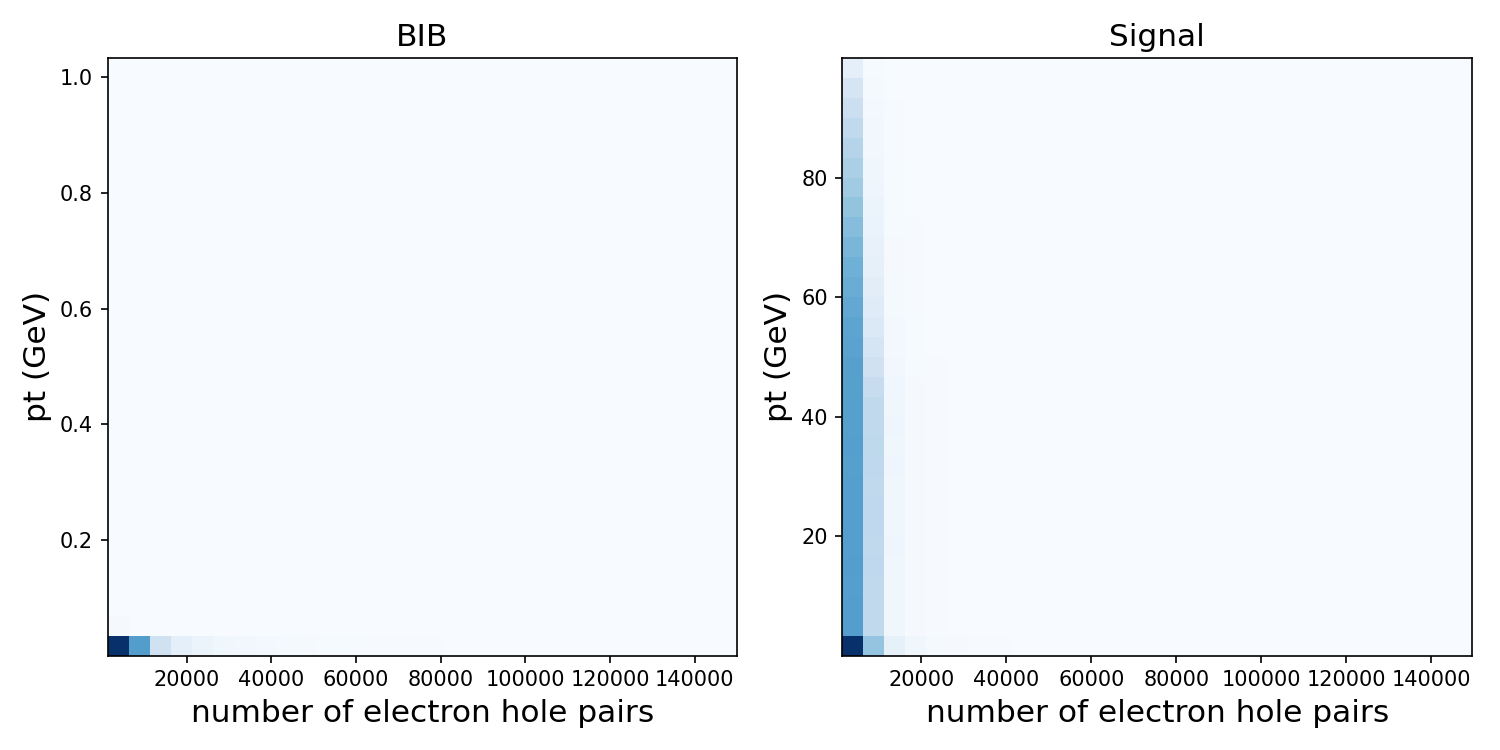
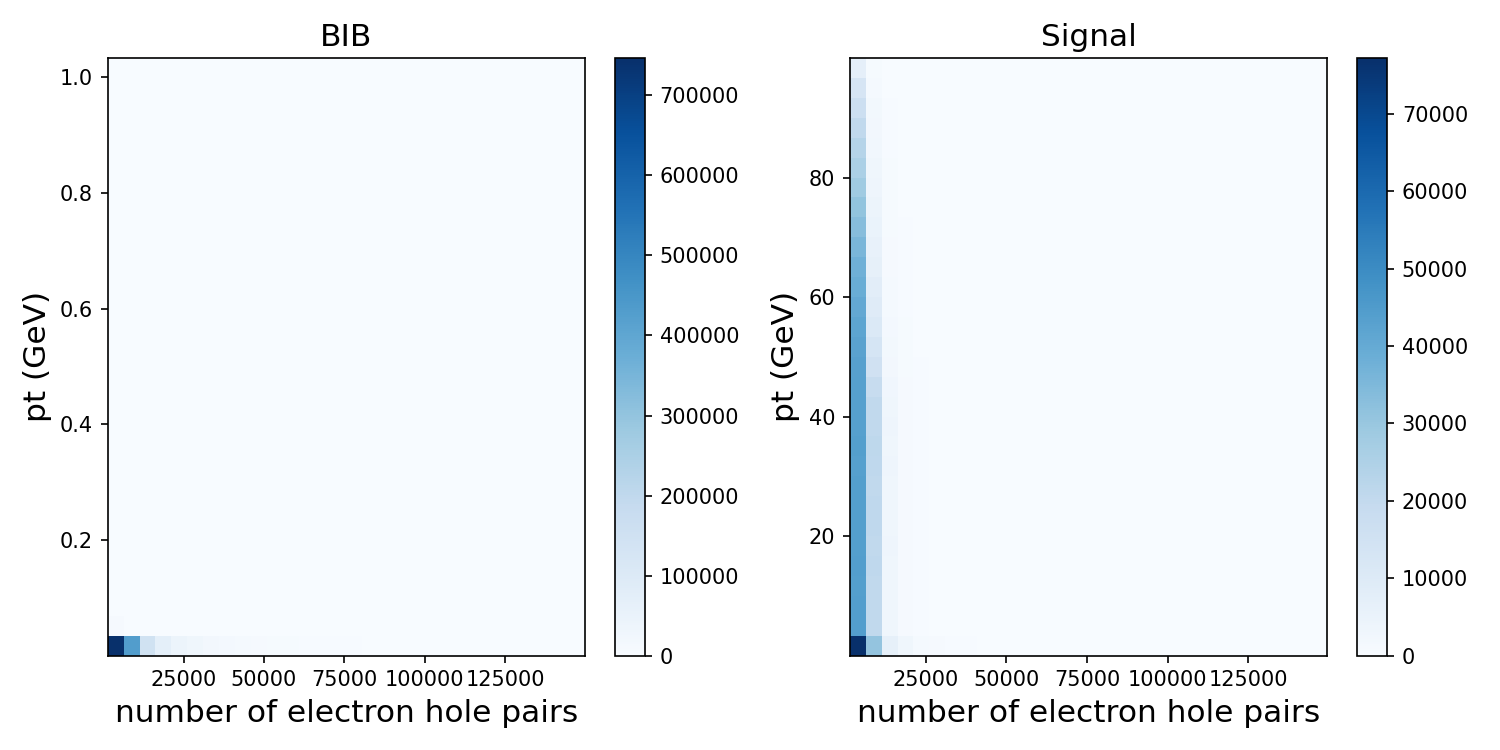
Updates to plots

diff --git a/daniel/validationPlots/plotUtils.py b/daniel/validationPlots/plotUtils.py
@@ -275,6 +275,9 @@ def getProfiles(truth__, clusters__):
     xProfile__MidZgl = getAverageXProfile(clusters__MidZgl)
     xProfile__HighZgl = getAverageXProfile(clusters__HighZgl)
 
+    yProfile__ = getAverageYProfile(clusters__)
+    xProfile__ = getAverageXProfile(clusters__)
+
 
     avgClusterDict = {        
         "yProfileLowPtPosLowYl": yProfile__LowPtPosLowYl,
@@ -339,6 +342,9 @@ def getProfiles(truth__, clusters__):
         "xProfileLowZgl": xProfile__LowZgl,
         "xProfileMidZgl": xProfile__MidZgl,
         "xProfileHighZgl": xProfile__HighZgl,
+
+        "yProfile": yProfile__,
+        "xProfile": xProfile__,
     }
     return avgClusterDict
 
@@ -420,7 +426,8 @@ def plotZglobalXsize(truthbib, truthsig, xSizesSig, xSizesBib,mask_bib,mask_sig,
     # mask_bib = ~np.isnan(z_global_bib) & ~np.isnan(xSizesBib)
     # mask_bib = mask_bib & np.isfinite(z_global_bib) & np.isfinite(xSizesBib)
     
-    ax[0].hist2d(z_global_bib[mask_bib], xSizesBib[mask_bib], bins=[30, np.arange(0,9,1)], cmap=pastel_red_cmap)
+    hb = ax[0].hist2d(z_global_bib[mask_bib], xSizesBib[mask_bib], bins=[30, np.arange(0,9,1)], cmap=pastel_red_cmap)
+    ax[0].figure.colorbar(hb[3],ax=ax[0])#    ax[0].colorbar()
     ax[0].set_title("BIB", fontsize=20)
     ax[0].set_xlabel('z-global [mm]', fontsize=24)
     ax[0].set_ylabel('x-size (# pixels)', fontsize=24)
@@ -430,7 +437,8 @@ def plotZglobalXsize(truthbib, truthsig, xSizesSig, xSizesBib,mask_bib,mask_sig,
     # mask_sig = ~np.isnan(z_global_sig) & ~np.isnan(xSizesSig)
     # mask_sig = mask_sig & np.isfinite(z_global_sig) & np.isfinite(xSizesSig)
     
-    ax[1].hist2d(z_global_sig[mask_sig], xSizesSig[mask_sig], bins=[30, np.arange(0,9,1)], cmap=pastel_red_cmap)
+    hb = ax[1].hist2d(z_global_sig[mask_sig], xSizesSig[mask_sig], bins=[30, np.arange(0,9,1)], cmap=pastel_red_cmap)
+    ax[1].figure.colorbar(hb[3],ax=ax[1])#    ax[1].colorbar()
     ax[1].set_title("Signal", fontsize=20)
     ax[1].set_xlabel('z-global [mm]', fontsize=24)
     ax[1].set_ylabel('x-size (# pixels)', fontsize=24)
@@ -468,7 +476,8 @@ def plotZglobalYsize(truthbib, truthsig, ySizesSig, ySizesBib,mask_bib_y,mask_si
     # mask_bib_y = ~np.isnan(z_global_bib) & ~np.isnan(ySizesBib)
     # mask_bib_y = mask_bib_y & np.isfinite(z_global_bib) & np.isfinite(ySizesBib)
     
-    ax[0].hist2d(z_global_bib[mask_bib_y], ySizesBib[mask_bib_y], bins=[30, np.arange(0,9,1)], cmap=pastel_red_cmap)
+    hb = ax[0].hist2d(z_global_bib[mask_bib_y], ySizesBib[mask_bib_y], bins=[30, np.arange(0,9,1)], cmap=pastel_red_cmap)
+    ax[0].figure.colorbar(hb[3],ax=ax[0])#    ax[0].colorbar()
     ax[0].set_title("BIB - Y Size", fontsize=63)
     ax[0].set_xlabel('z-global [mm]', fontsize=50)
     ax[0].set_ylabel('y-size (# pixels)', fontsize=50)
@@ -478,7 +487,8 @@ def plotZglobalYsize(truthbib, truthsig, ySizesSig, ySizesBib,mask_bib_y,mask_si
     # mask_sig_y = ~np.isnan(z_global_sig) & ~np.isnan(ySizesSig)
     # mask_sig_y = mask_sig_y & np.isfinite(z_global_sig) & np.isfinite(ySizesSig)
     
-    ax[1].hist2d(z_global_sig[mask_sig_y], ySizesSig[mask_sig_y], bins=[30, np.arange(0,9,1)], cmap=pastel_red_cmap)
+    hb = ax[1].hist2d(z_global_sig[mask_sig_y], ySizesSig[mask_sig_y], bins=[30, np.arange(0,9,1)], cmap=pastel_red_cmap)
+    ax[1].figure.colorbar(hb[3],ax=ax[1])#    ax[1].colorbar()
     ax[1].set_title("Signal - Y Size", fontsize=63)
     ax[1].set_xlabel('z-global [mm]', fontsize=50)
     ax[1].set_ylabel('y-size (# pixels)', fontsize=50)
@@ -513,14 +523,16 @@ def plotZglobalXYsize(truthbib, truthsig, xSizesSig, xSizesBib, ySizesSig, ySize
 
     # Top row: X-size comparisons
     # Top-left: BIB X-size
-    axes[0,0].hist2d(z_global_bib[mask_bib], xSizesBib[mask_bib], bins=[30, np.arange(0,9,1)], cmap=pastel_red_cmap)
+    hb = axes[0,0].hist2d(z_global_bib[mask_bib], xSizesBib[mask_bib], bins=[30, np.arange(0,9,1)], cmap=pastel_red_cmap)
+    axes[0,0].figure.colorbar(hb[3],ax=axes[0,0])#    axes[0,0].colorbar()
     axes[0,0].set_title("BIB - X Size", fontsize=38)
     axes[0,0].set_xlabel('z-global [mm]', fontsize=31)
     axes[0,0].set_ylabel('x-size (# pixels)', fontsize=31)
     axes[0,0].tick_params(axis='both', which='major', labelsize=23)
     
     # Top-right: Signal X-size
-    axes[0,1].hist2d(z_global_sig[mask_sig], xSizesSig[mask_sig], bins=[30, np.arange(0,9,1)], cmap=pastel_red_cmap)
+    hb = axes[0,1].hist2d(z_global_sig[mask_sig], xSizesSig[mask_sig], bins=[30, np.arange(0,9,1)], cmap=pastel_red_cmap)
+    axes[0,1].figure.colorbar(hb[3],ax=axes[0,1])#    axes[0,1].colorbar()
     axes[0,1].set_title("Signal - X Size", fontsize=38)
     axes[0,1].set_xlabel('z-global [mm]', fontsize=31)
     axes[0,1].set_ylabel('x-size (# pixels)', fontsize=31)
@@ -528,14 +540,16 @@ def plotZglobalXYsize(truthbib, truthsig, xSizesSig, xSizesBib, ySizesSig, ySize
     
     # Bottom row: Y-size comparisons
     # Bottom-left: BIB Y-size
-    axes[1,0].hist2d(z_global_bib[mask_bib_y], ySizesBib[mask_bib_y], bins=[30, np.arange(0,9,1)], cmap=pastel_red_cmap)
+    hb = axes[1,0].hist2d(z_global_bib[mask_bib_y], ySizesBib[mask_bib_y], bins=[30, np.arange(0,9,1)], cmap=pastel_red_cmap)
+    axes[1,0].figure.colorbar(hb[3],ax=axes[1,0])#    axes[1,0].colorbar()
     axes[1,0].set_title("BIB - Y Size", fontsize=38)
     axes[1,0].set_xlabel('z-global [mm]', fontsize=31)
     axes[1,0].set_ylabel('y-size (# pixels)', fontsize=31)
     axes[1,0].tick_params(axis='both', which='major', labelsize=23)
     
     # Bottom-right: Signal Y-size
-    axes[1,1].hist2d(z_global_sig[mask_sig_y], ySizesSig[mask_sig_y], bins=[30, np.arange(0,9,1)], cmap=pastel_red_cmap)
+    hb = axes[1,1].hist2d(z_global_sig[mask_sig_y], ySizesSig[mask_sig_y], bins=[30, np.arange(0,9,1)], cmap=pastel_red_cmap)
+    axes[1,1].figure.colorbar(hb[3],ax=axes[1,1])#    axes[1,1].colorbar()
     axes[1,1].set_title("Signal - Y Size", fontsize=38)
     axes[1,1].set_xlabel('z-global [mm]', fontsize=31)
     axes[1,1].set_ylabel('y-size (# pixels)', fontsize=31)
@@ -638,12 +652,14 @@ def plotEtaXYsize(truthbib, truthsig, xSizesSig, xSizesBib, ySizesSig, ySizesBib
     # Before each hist2d call, filter out NaN and inf values for both axes
     mask_96 = ~np.isnan(truthsig['eta']) & ~np.isnan(xSizesSig)
     mask_96 = mask_96 & np.isfinite(truthsig['eta']) & np.isfinite(xSizesSig)
-    ax[0,1].hist2d(truthsig['eta'][mask_96], xSizesSig[mask_96], bins=[30, np.arange(0,9,1)], cmap='Blues')
+    hb = ax[0,1].hist2d(truthsig['eta'][mask_96], xSizesSig[mask_96], bins=[30, np.arange(0,9,1)], cmap='Blues')
+    ax[0,1].figure.colorbar(hb[3],ax=ax[0,1])#    ax[0,1].colorbar()
     ax[0,1].set_title("Signal", fontsize=15)
 
     mask_98 = ~np.isnan(truthsig['eta']) & ~np.isnan(ySizesSig)
     mask_98 = mask_98 & np.isfinite(truthsig['eta']) & np.isfinite(ySizesSig)
-    ax[1,1].hist2d(truthsig['eta'][mask_98], ySizesSig[mask_98], bins=[30, np.arange(0,14,1)], cmap='Blues')
+    hb = ax[1,1].hist2d(truthsig['eta'][mask_98], ySizesSig[mask_98], bins=[30, np.arange(0,14,1)], cmap='Blues')
+    ax[1,1].figure.colorbar(hb[3],ax=ax[1,1])#    ax[1,1].colorbar()
     ax[1,1].set_xlabel('η', fontsize=15)
 
     ax[0,0].set_ylabel('x-size (# pixels)', fontsize=15)
@@ -653,12 +669,14 @@ def plotEtaXYsize(truthbib, truthsig, xSizesSig, xSizesBib, ySizesSig, ySizesBib
     # Before each hist2d call, filter out NaN and inf values for both axes
     mask_96 = ~np.isnan(truthbib['eta']) & ~np.isnan(xSizesBib)
     mask_96 = mask_96 & np.isfinite(truthbib['eta']) & np.isfinite(xSizesBib)
-    ax[0,0].hist2d(truthbib['eta'][mask_96], xSizesBib[mask_96], bins=[30, np.arange(0,9,1)], cmap='Blues')
+    hb = ax[0,0].hist2d(truthbib['eta'][mask_96], xSizesBib[mask_96], bins=[30, np.arange(0,9,1)], cmap='Blues')
+    ax[0,0].figure.colorbar(hb[3],ax=ax[0,0])#    ax[0,0].colorbar()
     ax[0,0].set_title("BIB", fontsize=15)
 
     mask_98 = ~np.isnan(truthbib['eta']) & ~np.isnan(ySizesBib)
     mask_98 = mask_98 & np.isfinite(truthbib['eta']) & np.isfinite(ySizesBib)
-    ax[1,0].hist2d(truthbib['eta'][mask_98], ySizesBib[mask_98], bins=[30, np.arange(0,14,1)], cmap='Blues')
+    hb = ax[1,0].hist2d(truthbib['eta'][mask_98], ySizesBib[mask_98], bins=[30, np.arange(0,14,1)], cmap='Blues')
+    ax[1,0].figure.colorbar(hb[3],ax=ax[1,0])#    ax[1,0].colorbar()
     ax[1,0].set_xlabel('η', fontsize=15)
 
     plt.tight_layout()
@@ -675,12 +693,14 @@ def plotYlocalXYsize(truthbib, truthsig, xSizesSig, xSizesBib, ySizesSig, ySizes
     # Before each hist2d call, filter out NaN and inf values for both axes
     mask_111 = ~np.isnan(truthsig['y-local']) & ~np.isnan(xSizesSig)
     mask_111 = mask_111 & np.isfinite(truthsig['y-local']) & np.isfinite(xSizesSig)
-    ax[0,1].hist2d(truthsig['y-local'][mask_111], xSizesSig[mask_111], bins=[30, np.arange(0,9,1)], cmap='Blues')
+    hb = ax[0,1].hist2d(truthsig['y-local'][mask_111], xSizesSig[mask_111], bins=[30, np.arange(0,9,1)], cmap='Blues')
+    ax[0,1].figure.colorbar(hb[3],ax=ax[0,1])#    ax[0,1].colorbar()
     ax[0,1].set_title("Signal", fontsize=15)
 
     mask_113 = ~np.isnan(truthsig['y-local']) & ~np.isnan(ySizesSig)
     mask_113 = mask_113 & np.isfinite(truthsig['y-local']) & np.isfinite(ySizesSig)
-    ax[1,1].hist2d(truthsig['y-local'][mask_113], ySizesSig[mask_113], bins=[30, np.arange(0,14,1)], cmap='Blues')
+    hb = ax[1,1].hist2d(truthsig['y-local'][mask_113], ySizesSig[mask_113], bins=[30, np.arange(0,14,1)], cmap='Blues')
+    ax[1,1].figure.colorbar(hb[3],ax=ax[1,1])#    ax[1,1].colorbar()
     ax[1,1].set_xlabel('y-local [μm]', fontsize=15)
 
     ax[0,0].set_ylabel('x-size (# pixels)', fontsize=15)
@@ -691,12 +711,14 @@ def plotYlocalXYsize(truthbib, truthsig, xSizesSig, xSizesBib, ySizesSig, ySizes
 
     mask_111 = ~np.isnan(truthbib['y-local']) & ~np.isnan(xSizesBib)
     mask_111 = mask_111 & np.isfinite(truthbib['y-local']) & np.isfinite(xSizesBib)
-    ax[0,0].hist2d(truthbib['y-local'][mask_111], xSizesBib[mask_111], bins=[30, np.arange(0,9,1)], cmap='Blues')
+    hb = ax[0,0].hist2d(truthbib['y-local'][mask_111], xSizesBib[mask_111], bins=[30, np.arange(0,9,1)], cmap='Blues')
+    ax[0,0].figure.colorbar(hb[3],ax=ax[0,0])#    ax[0,0].colorbar()
     ax[0,0].set_title("BIB", fontsize=15)
 
     mask_113 = ~np.isnan(truthbib['y-local']) & ~np.isnan(ySizesBib)
     mask_113 = mask_113 & np.isfinite(truthbib['y-local']) & np.isfinite(ySizesBib)
-    ax[1,0].hist2d(truthbib['y-local'][mask_113], ySizesBib[mask_113], bins=[30, np.arange(0,14,1)], cmap='Blues')
+    hb = ax[1,0].hist2d(truthbib['y-local'][mask_113], ySizesBib[mask_113], bins=[30, np.arange(0,14,1)], cmap='Blues')
+    ax[1,0].figure.colorbar(hb[3],ax=ax[1,0])#    ax[1,0].colorbar()
     ax[1,0].set_xlabel('y-local [μm]', fontsize=15)
 
 
@@ -713,14 +735,16 @@ def plotEhPt(truthbib, truthsig, mask_bib,mask_sig,PLOT_DIR="./plots",interactiv
     # Before each hist2d call, filter out NaN and inf values for both axes
     mask_125 = ~np.isnan(truthsig['number_eh_pairs']) & ~np.isnan(truthsig['pt'])
     mask_125 = mask_125 & np.isfinite(truthsig['number_eh_pairs']) & np.isfinite(truthsig['pt'])
-    ax[1].hist2d(truthsig['number_eh_pairs'][mask_125], truthsig['pt'][mask_125], bins=30, cmap='Blues')
+    hb = ax[1].hist2d(truthsig['number_eh_pairs'][mask_125], truthsig['pt'][mask_125], bins=30, cmap='Blues')
+    ax[1].figure.colorbar(hb[3],ax=ax[1])#    ax[1].colorbar()
     ax[1].set_title("Signal", fontsize=15)
     ax[1].set_ylabel('pt (GeV)', fontsize=15)
     ax[1].set_xlabel('number of electron hole pairs', fontsize=15)
 
     mask_125 = ~np.isnan(truthbib['number_eh_pairs']) & ~np.isnan(truthbib['pt'])
     mask_125 = mask_125 & np.isfinite(truthbib['number_eh_pairs']) & np.isfinite(truthbib['pt'])
-    ax[0].hist2d(truthbib['number_eh_pairs'][mask_125], truthbib['pt'][mask_125], bins=30, cmap='Blues')
+    hb = ax[0].hist2d(truthbib['number_eh_pairs'][mask_125], truthbib['pt'][mask_125], bins=30, cmap='Blues')
+    ax[0].figure.colorbar(hb[3],ax=ax[0])#    ax[0].colorbar()
     ax[0].set_title("BIB", fontsize=15)
     ax[0].set_ylabel('pt (GeV)', fontsize=15)
     ax[0].set_xlabel('number of electron hole pairs', fontsize=15)
@@ -868,7 +892,7 @@ def plotYprofileYlocalRange(
     ax[0].step(yaxis,avgClustDict["yProfileHighPtNegLowYl"], where="mid", label="High pT (neg)", c='k')
     ax[0].legend()
     ax[0].set_title("-4.5 mm < y-local < -2 mm")
-    ax[0].set_ylabel("Fraction of total cluster charge")
+    ax[0].set_ylabel("Average charge in cluster y profile")
     ax[0].set_xlabel("y [pixels]")
 
     ax[1].step(yaxis,avgClustDict["yProfileLowPtPosMidYl"], where="mid", label="Low pT (pos)", c ='r')
@@ -906,7 +930,7 @@ def plotYprofileYZRange(
     ax[0,0].step(yaxis,avgClustDictBib["yProfileMidZgl"], where="mid", label="z-global \u2208 [20,40] mm")
     ax[0,0].step(yaxis,avgClustDictBib["yProfileHighZgl"], where="mid", label="z-global \u2208 [40,65] mm")
     ax[0,0].legend()
-    ax[0,0].set_ylabel("Fraction of total cluster charge")
+    ax[0,0].set_ylabel("Average charge in cluster y profile")
     ax[0,0].set_xlabel("y [pixels]")
     ax[0,0].set_title("BIB", fontsize=15)
 
@@ -915,7 +939,7 @@ def plotYprofileYZRange(
     ax[1,0].step(yaxis,avgClustDictBib["yProfileMidYl"], where="mid", label="y-local \u2208 [0,2] mm")
     ax[1,0].step(yaxis,avgClustDictBib["yProfileHighYl"], where="mid", label="y-local \u2208 [6,8.5] mm")
     ax[1,0].legend()
-    ax[1,0].set_ylabel("Fraction of total cluster charge")
+    ax[1,0].set_ylabel("Average charge in cluster y profile")
     ax[1,0].set_xlabel("y [pixels]")
 
 
@@ -923,7 +947,7 @@ def plotYprofileYZRange(
     ax[0,1].step(yaxis,avgClustDictSig["yProfileMidZgl"], where="mid", label="z-global \u2208 [20,40] mm")
     ax[0,1].step(yaxis,avgClustDictSig["yProfileHighZgl"], where="mid", label="z-global \u2208 [40,65] mm")
     ax[0,1].legend()
-    ax[0,1].set_ylabel("Fraction of total cluster charge")
+    ax[0,1].set_ylabel("Average charge in cluster y profile")
     ax[0,1].set_xlabel("y [pixels]")
     ax[0,1].set_title("Signal", fontsize=15)
 
@@ -932,11 +956,85 @@ def plotYprofileYZRange(
     ax[1,1].step(yaxis,avgClustDictSig["yProfileMidYl"], where="mid", label="y-local \u2208 [0,2] mm")
     ax[1,1].step(yaxis,avgClustDictSig["yProfileHighYl"], where="mid", label="y-local \u2208 [6,8.5] mm")
     ax[1,1].legend()
-    ax[1,1].set_ylabel("Fraction of total cluster charge")
+    ax[1,1].set_ylabel("Average charge in cluster y profile")
     ax[1,1].set_xlabel("y [pixels]")
 
     
     plt.savefig(os.path.join(PLOT_DIR, f"signal_bib_allYprofilesInYlocalZglobalRanges.png"))
+    if interactivePlots:
+        plt.show()
+    else:
+        plt.close()
+
+def clusterYSizeVsYlocal(truth):
+    clusterSize=[]
+    ylocals=np.arange(-4.5,9,1)
+    intervals = np.arange(-5,9.5,1)
+    for i in range(len(intervals)-1):
+        cut1 = truth['y-local']>=intervals[i]
+        cut2 = truth['y-local']<intervals[i+1]
+        cut = cut1 & cut2
+        clusterThisSize = np.mean(truth[cut]["ySize"])
+        clusterSize.append(clusterThisSize)
+    return ylocals,clusterSize
+
+def plotClusterYSizes(
+        truth_,
+        titleBibSig = "Signal",
+        PLOT_DIR="./plots",interactivePlots=False):
+    ylocals,lowPosSize = clusterYSizeVsYlocal(truth_.query("pt < 5 and q > 0"))
+    ylocals,lowNegSize = clusterYSizeVsYlocal(truth_.query("pt < 5 and q < 0"))
+    ylocals,highSize = clusterYSizeVsYlocal(truth_.query("pt > 95"))
+    fig, ax = plt.subplots(figsize=(7,5))
+    ax.scatter(ylocals, lowPosSize, c='r', label="Low pT (pos)")
+    ax.scatter(ylocals, lowNegSize, c='b', label="Low pT (neg)")
+    ax.scatter(ylocals, highSize, c='k', label="High pT")
+    ax.set_xlabel("y-local [mm]")
+    ax.set_ylabel("Cluster y sizes [pixels]")
+    ax.legend()
+    ax.set_title(f"{titleBibSig}")
+    plt.savefig(os.path.join(PLOT_DIR, f"{titleBibSig}clusterYSizes.png"))
+    if interactivePlots:
+        plt.show()
+    else:
+        plt.close()
+
+def plotXYProfile(truthBib, truthSig, avgClustDictSig, avgClustDictBib,
+        PLOT_DIR="./plots",interactivePlots=False):
+    fig, ax=plt.subplots(ncols=2, nrows=2, figsize=(10,8))
+    xaxis = np.arange(1,22)
+    yaxis=np.arange(1,14,1)
+    ax[0,0].step(yaxis,avgClustDictSig["yProfile"], where="mid", label="Signal", c ='g')
+    ax[0,0].step(yaxis,avgClustDictBib["yProfile"], where="mid", label="Bib", c ='purple')
+    ax[0,0].legend()
+    ax[0,0].set_xlabel("y-pixels")
+    ax[0,0].set_ylabel("Total charge collected")
+    ax[0,0].set_title("Average y-profile Comaprison")
+
+    ax[0,1].step(xaxis,avgClustDictSig["xProfile"], where="mid", label="Signal", c ='g')
+    ax[0,1].step(xaxis,avgClustDictBib["xProfile"], where="mid", label="Bib", c ='purple')
+    ax[0,1].legend()
+    ax[0,1].set_xlabel("x-pixels")
+    ax[0,1].set_ylabel("Total charge collected")
+    ax[0,1].set_title("Average x-profile Comaprison")
+
+    ax[1,0].hist(truthSig["ySize"], bins=np.arange(0,14), histtype='step', density=True, label="Signal", color ='g')
+    ax[1,0].hist(truthBib["ySize"], bins=np.arange(0,14), histtype='step', density=True, label="Bib", color ='purple')
+    ax[1,0].legend()
+    ax[1,0].set_xlabel("Cluster y-size [# pixels]")
+    ax[1,0].set_ylabel("Track Density")
+    ax[1,0].set_title("Cluster y-size Comaprison")
+
+    ax[1,1].hist(truthSig["xSize"], bins=np.arange(0,22), histtype='step', density=True, label="Signal", color ='g')
+    ax[1,1].hist(truthBib["xSize"], bins=np.arange(0,22), histtype='step', density=True, label="Bib", color ='purple')
+    ax[1,1].legend()
+    ax[1,1].set_xlabel("Cluster x-size [# pixels]")
+    ax[1,1].set_ylabel("Track Density")
+    ax[1,1].set_title("Cluster x-size Comaprison")
+
+    fig.tight_layout()
+
+    plt.savefig(os.path.join(PLOT_DIR, f"XYSizeProfiless.png"))
     if interactivePlots:
         plt.show()
     else:

diff --git a/daniel/validationPlots/runPlots.py b/daniel/validationPlots/runPlots.py
@@ -27,7 +27,7 @@ skip_indices = list(range(1730 - 124+87, 1769))  # 1606+87 [hand-tuned the 87] t
 
 processRecon = False;
 
-interactivePlots=True;
+interactivePlots=False;
 PLOT_DIR = os.path.join(os.path.dirname(os.path.abspath(__file__)), "plots")
 os.makedirs(PLOT_DIR, exist_ok=True)
 savedPklFromParquet = True;
@@ -79,6 +79,10 @@ plotRadius(truthBib,truthSig,PLOT_DIR=PLOT_DIR,interactivePlots=interactivePlots
 plotYprofileYlocalRange(avgClustDictBib,titleBibSig="Bib",PLOT_DIR=PLOT_DIR,interactivePlots=interactivePlots)
 plotYprofileYlocalRange(avgClustDictSig,titleBibSig="Signal",PLOT_DIR=PLOT_DIR,interactivePlots=interactivePlots)
 plotYprofileYZRange(avgClustDictBib,avgClustDictSig,PLOT_DIR=PLOT_DIR,interactivePlots=interactivePlots)
+plotClusterYSizes(truthBib,titleBibSig="Bib",PLOT_DIR=PLOT_DIR,interactivePlots=interactivePlots)
+plotClusterYSizes(truthSig,titleBibSig="Signal",PLOT_DIR=PLOT_DIR,interactivePlots=interactivePlots)
+plotXYProfile(truthBib, truthSig, avgClustDictSig, avgClustDictBib,
+                      PLOT_DIR=PLOT_DIR,interactivePlots=interactivePlots)
 
 #Eric's plots
 mask_bib,mask_sig,mask_bib_x,mask_sig_x,mask_bib_y,mask_sig_y, = getEricsMasks(truthBib, truthSig, xSizesSig, xSizesBib, ySizesSig, ySizesBib,)
